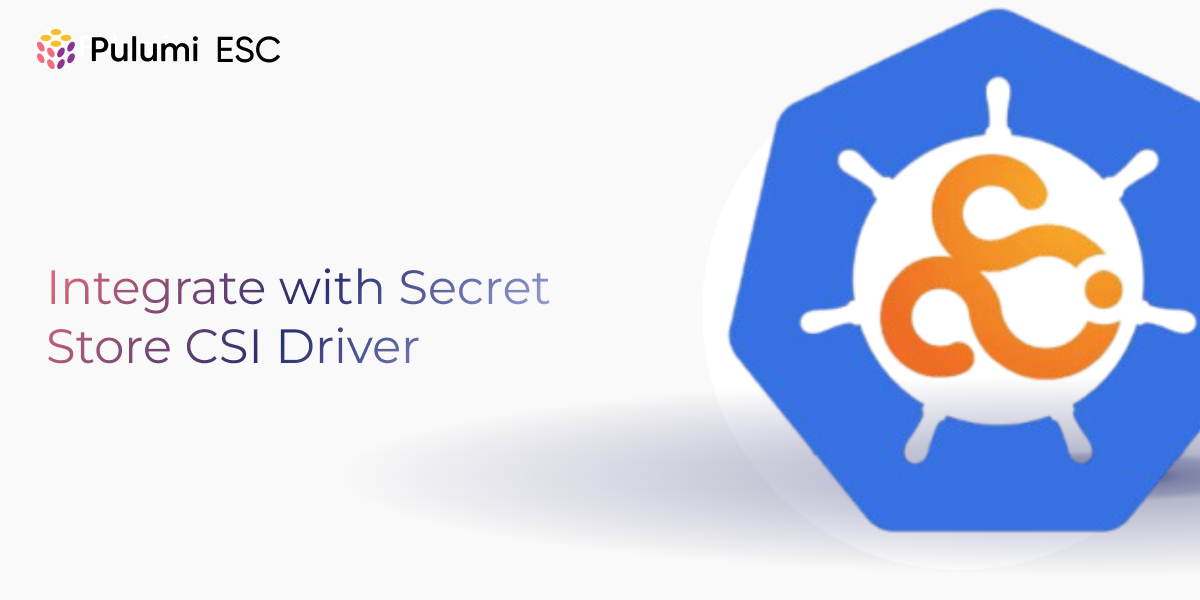
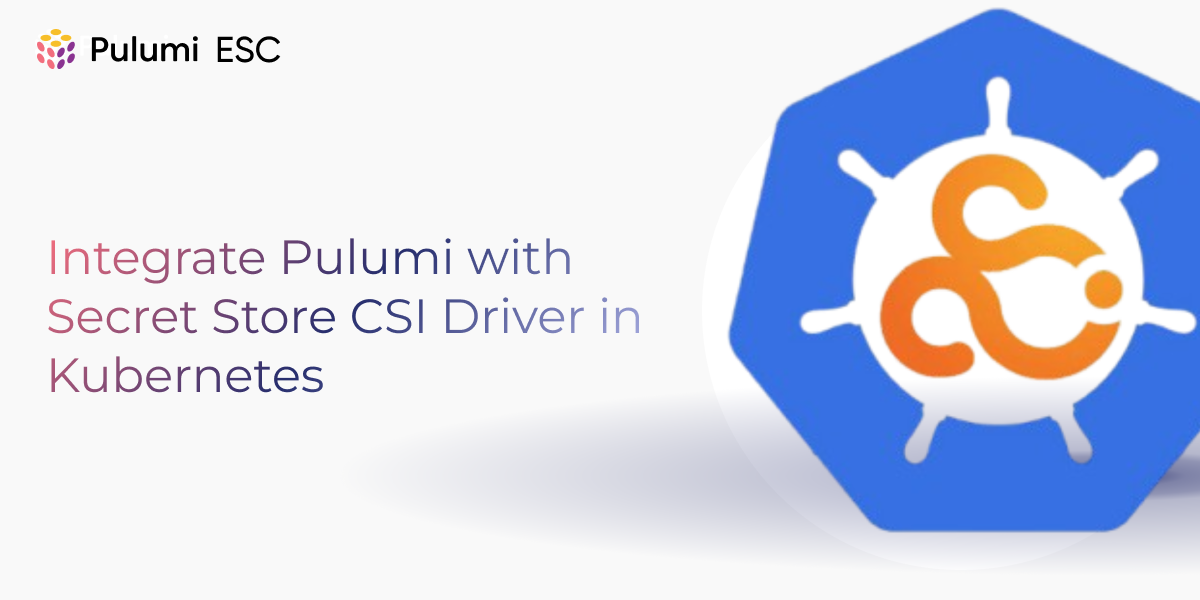
feat: tutorial Integrate with Secret Store CSI Driver

Changed region(s): [[0.0308, 0.39, 0.555, 0.66]]

diff --git a/content/tutorials/esc-secret-store-csi-driver/index.md b/content/tutorials/esc-secret-store-csi-driver/index.md
@@ -1,7 +1,7 @@
 ---
-title: "Integrate with Secret Store CSI Driver"
-title_tag: "Integrate with Secret Store CSI Driver | Learn Pulumi"
-h1: "Integrate with Secret Store CSI Driver"
+title: "Integrate Pulumi with Secret Store CSI Driver in Kubernetes"
+title_tag: "Integrate Pulumi with Secret Store CSI Driver in Kubernetes"
+h1: "Integrate Pulumi with Secret Store CSI Driver in Kubernetes"
 layout: single
 description: |
     Learn how to integrate the Secret Store CSI Driver with Pulumi ESC to securely manage your secrets in Kubernetes.
@@ -9,15 +9,19 @@ meta_desc: "Learn how to integrate the Secret Store CSI Driver with Pulumi ESC t
 weight: 999
 meta_image: meta.png
 summary: |
+  ### Container Storage Interface (CSI)
+
+  The Container Storage Interface (CSI) is a standard to unify the interface between container orchestrators (like Kubernetes) and different storage vendors (like NetApp, Ceph, etc.). This helps to guarantee that implementing a CSI for a storage vendor is going to work with all orchestrators that support CSI.
+
   ## Combining CSI, Kubernetes and Secrets = Secret Store CSI Driver
 
-  The Secret Store CSI Driver is a CSI driver that allows you to mount many secrets, certificates, and keys from external secret stores into Kubernetes pods as volumes. After attaching the volume, the system mounts the secrets into the container file system.
-
+  The Kubernetes Secret Store CSI Driver allows you to mount secrets, certificates, and keys from external secret stores into Kubernetes pods as volumes. After attaching the volume, the system mounts the secrets into the container file system.
+  
   The benefits of using the Secret Store CSI Driver are that you manage the lifecycle of the secrets outside of Kubernetes while still providing a Kubernetes-native experience of using the secrets in your pods.    
 
 youll_learn:
   - How to deploy the Secret Store CSI Driver and Pulumi ESC Provider using Helm or Pulumi
-  - How to mount secretes stored in Pulumi ESC as volumes in your Kubernetes pods
+  - How to mount secrets stored in Pulumi ESC as volumes in your Kubernetes pods
 estimated_time: 15
 collections:
 - pulumi-esc
@@ -57,7 +61,7 @@ NAME                                               READY   STATUS    RESTARTS   
 csi-secrets-store-secrets-store-csi-driver-drv44   3/3     Running   0          54s
 ```
 
-Additionally, you should see following CRDs installed:
+Additionally, you should see the following CRDs installed:
 
 ```bash
 kubectl get crds | grep secrets-store
@@ -79,7 +83,7 @@ NAME                            READY   STATUS    RESTARTS   AGE
 pulumi-esc-csi-provider-l8w5f   1/1     Running   0          76s
 ```
 
-Now with everything running, we can start using the Pulumi ESC provider for getting our secrets from Pulumi ESC.
+Now with everything running, we can start using the Pulumi ESC provider to retrieve our secrets from Pulumi ESC.
 
 #### Create secret containing Pulumi access token
 
@@ -188,9 +192,9 @@ spec:
             secretProviderClass: "example-provider-pulumi-esc"
 ```
 
-Important part of the deployment is the `secretProviderClass: "example-provider-pulumi-esc"` attribute in the `volumeAttributes` section. This tells the Secret Store CSI Driver to use the `example-provider-pulumi-esc` provider to retrieve the secrets.
+An important part of the deployment is the `secretProviderClass: "example-provider-pulumi-esc"` attribute in the `volumeAttributes` section. This tells the Secret Store CSI Driver to use the `example-provider-pulumi-esc` provider to retrieve the secrets.
 
-On pod start or restart, the Secret Store CSI Driver will commmunicate with the Pulumi ESC provider to retrieve the secrets content from Pulumi ESC as defined in the `SecretProviderClass` object.
+On pod start or restart, the Secret Store CSI Driver will communicate with the Pulumi ESC provider to retrieve the secrets content from Pulumi ESC as defined in the `SecretProviderClass` object.
 
 Then the volume is mounted in the pod as `tmpfs` and the secret contents are written to the mounted volume.
 
@@ -321,7 +325,7 @@ Deploy the stack by running:
 pulumi up
 ```
 
-And you should see that the secret was created in the Kubernetes cluster and the ESO instance was deployed successfully.
+You will see that the secret was created in the Kubernetes cluster and the ESO instance was deployed successfully.
 
 ```bash
 kubectl get secret pulumi-access-token -o jsonpath='{.data.PULUMI_ACCESS_TOKEN}' | base64 -d
@@ -471,5 +475,5 @@ As we continue to improve the Pulumi ESC provider, we would love to hear your fe
 To dive deeper into using Pulumi ESC for advanced scenarios, check out the following resources:
 
 - **Pulumi ESC and External Secrets Operator**: Learn how to use the External Secrets Operator to manage secrets in Pulumi ESC and synchronize them with your Kubernetes cluster. Check out the [Pulumi ESC and External Secrets Operator tutorial](/tutorials/esc-external-secret-operator/).
-- **Environment Composition**: Learn more about to effectively compose multiple environments to manage configurations across your infrastructure. Explore the [Pulumi documentation on environment imports](/docs/esc/environments/imports/).
+- **Environment Composition**: Learn more about how to effectively compose multiple environments to manage configurations across your infrastructure. Explore the [Pulumi documentation on environment imports](/docs/esc/environments/imports/).
 - **Managing Secrets**: Learn how to securely manage and adopt dynamic, short-lived secrets on demand using Pulumi ESC, ensuring sensitive information is protected across different environments. Read more in the [Pulumi ESC documentation](/docs/esc/).
